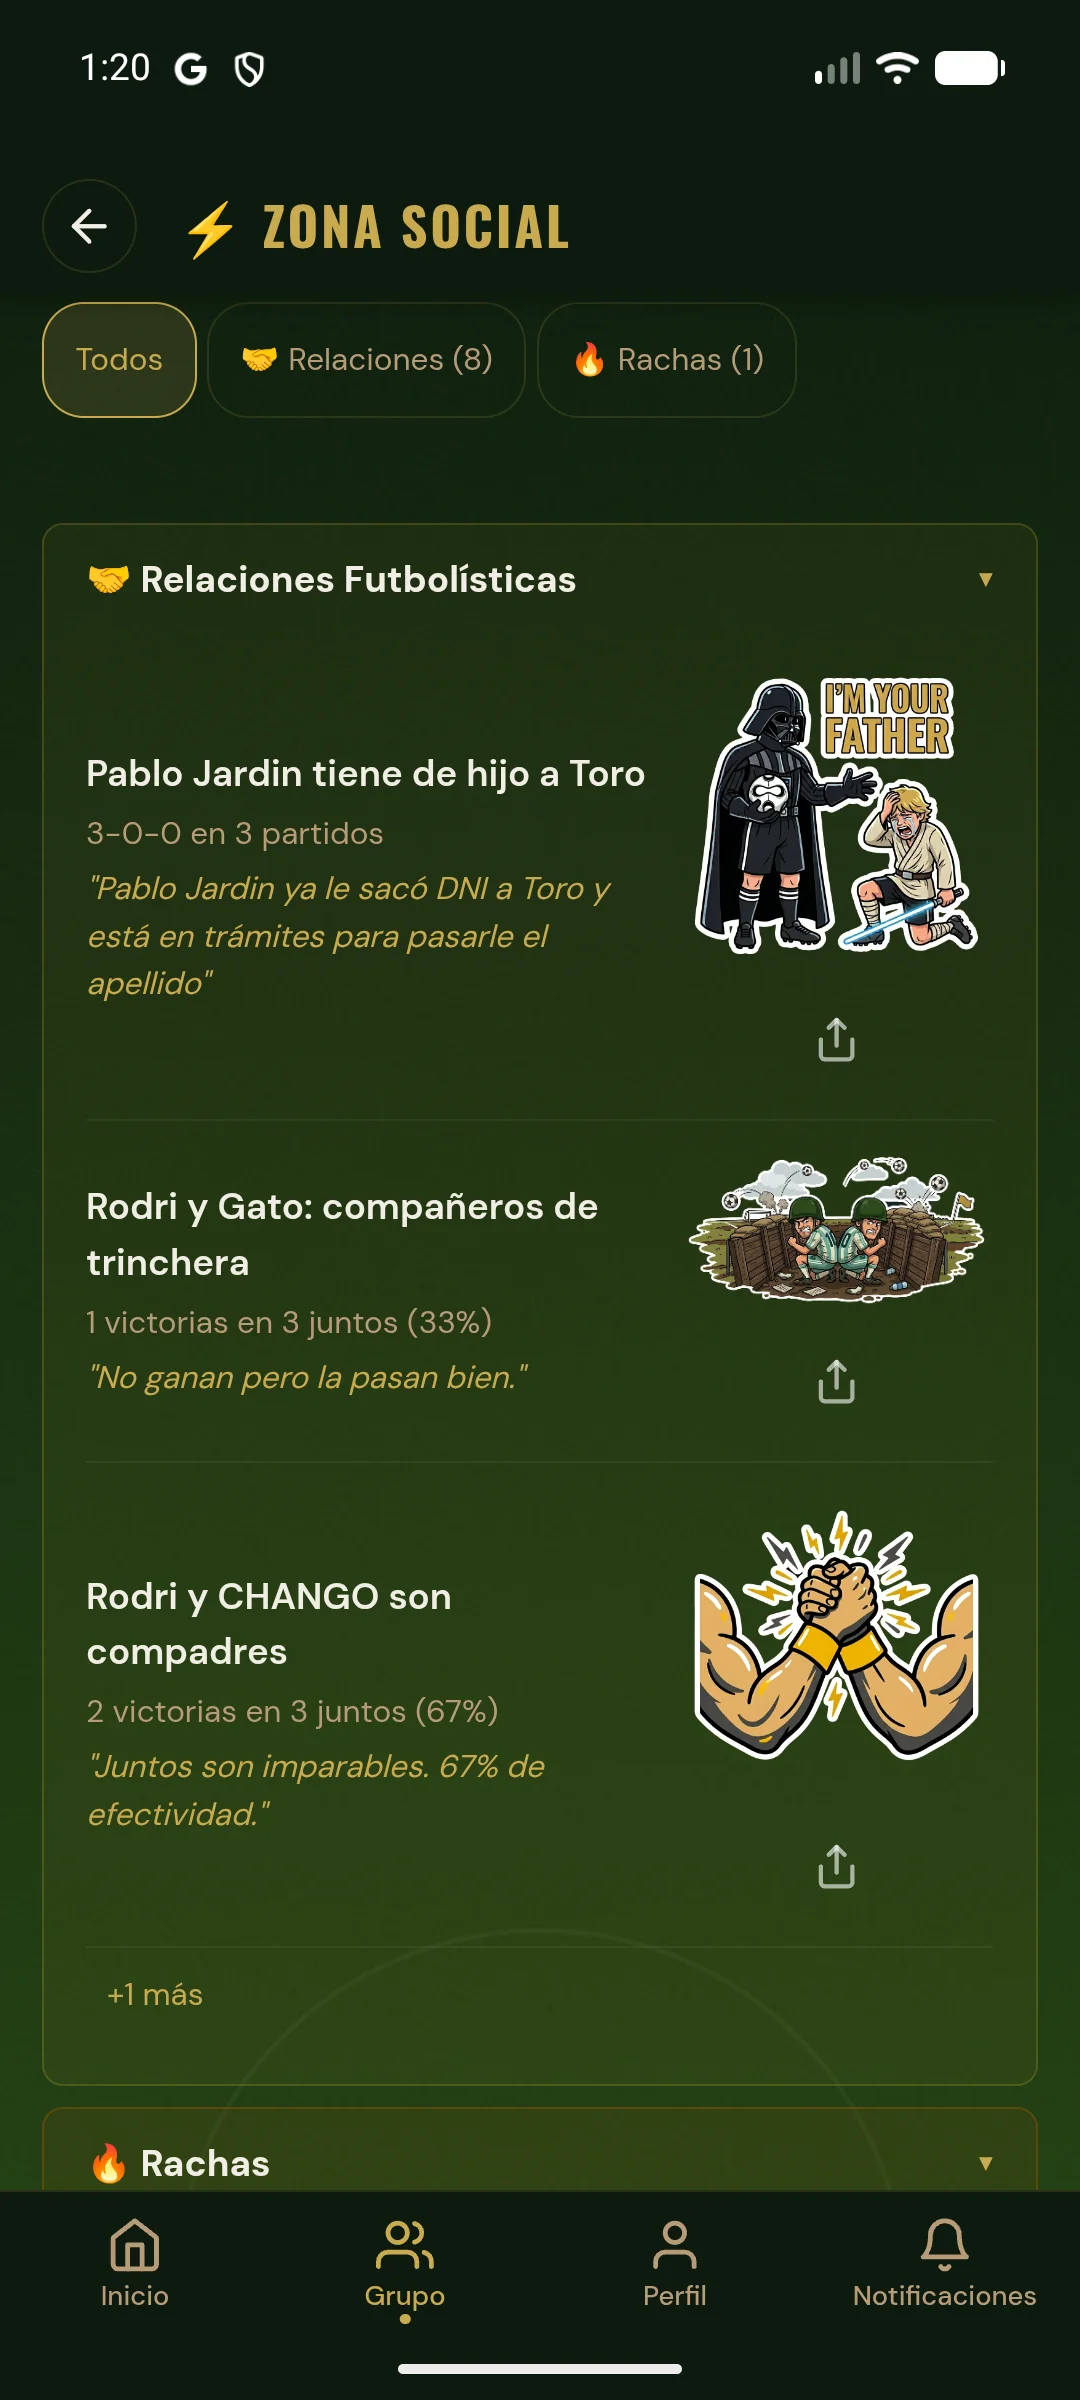
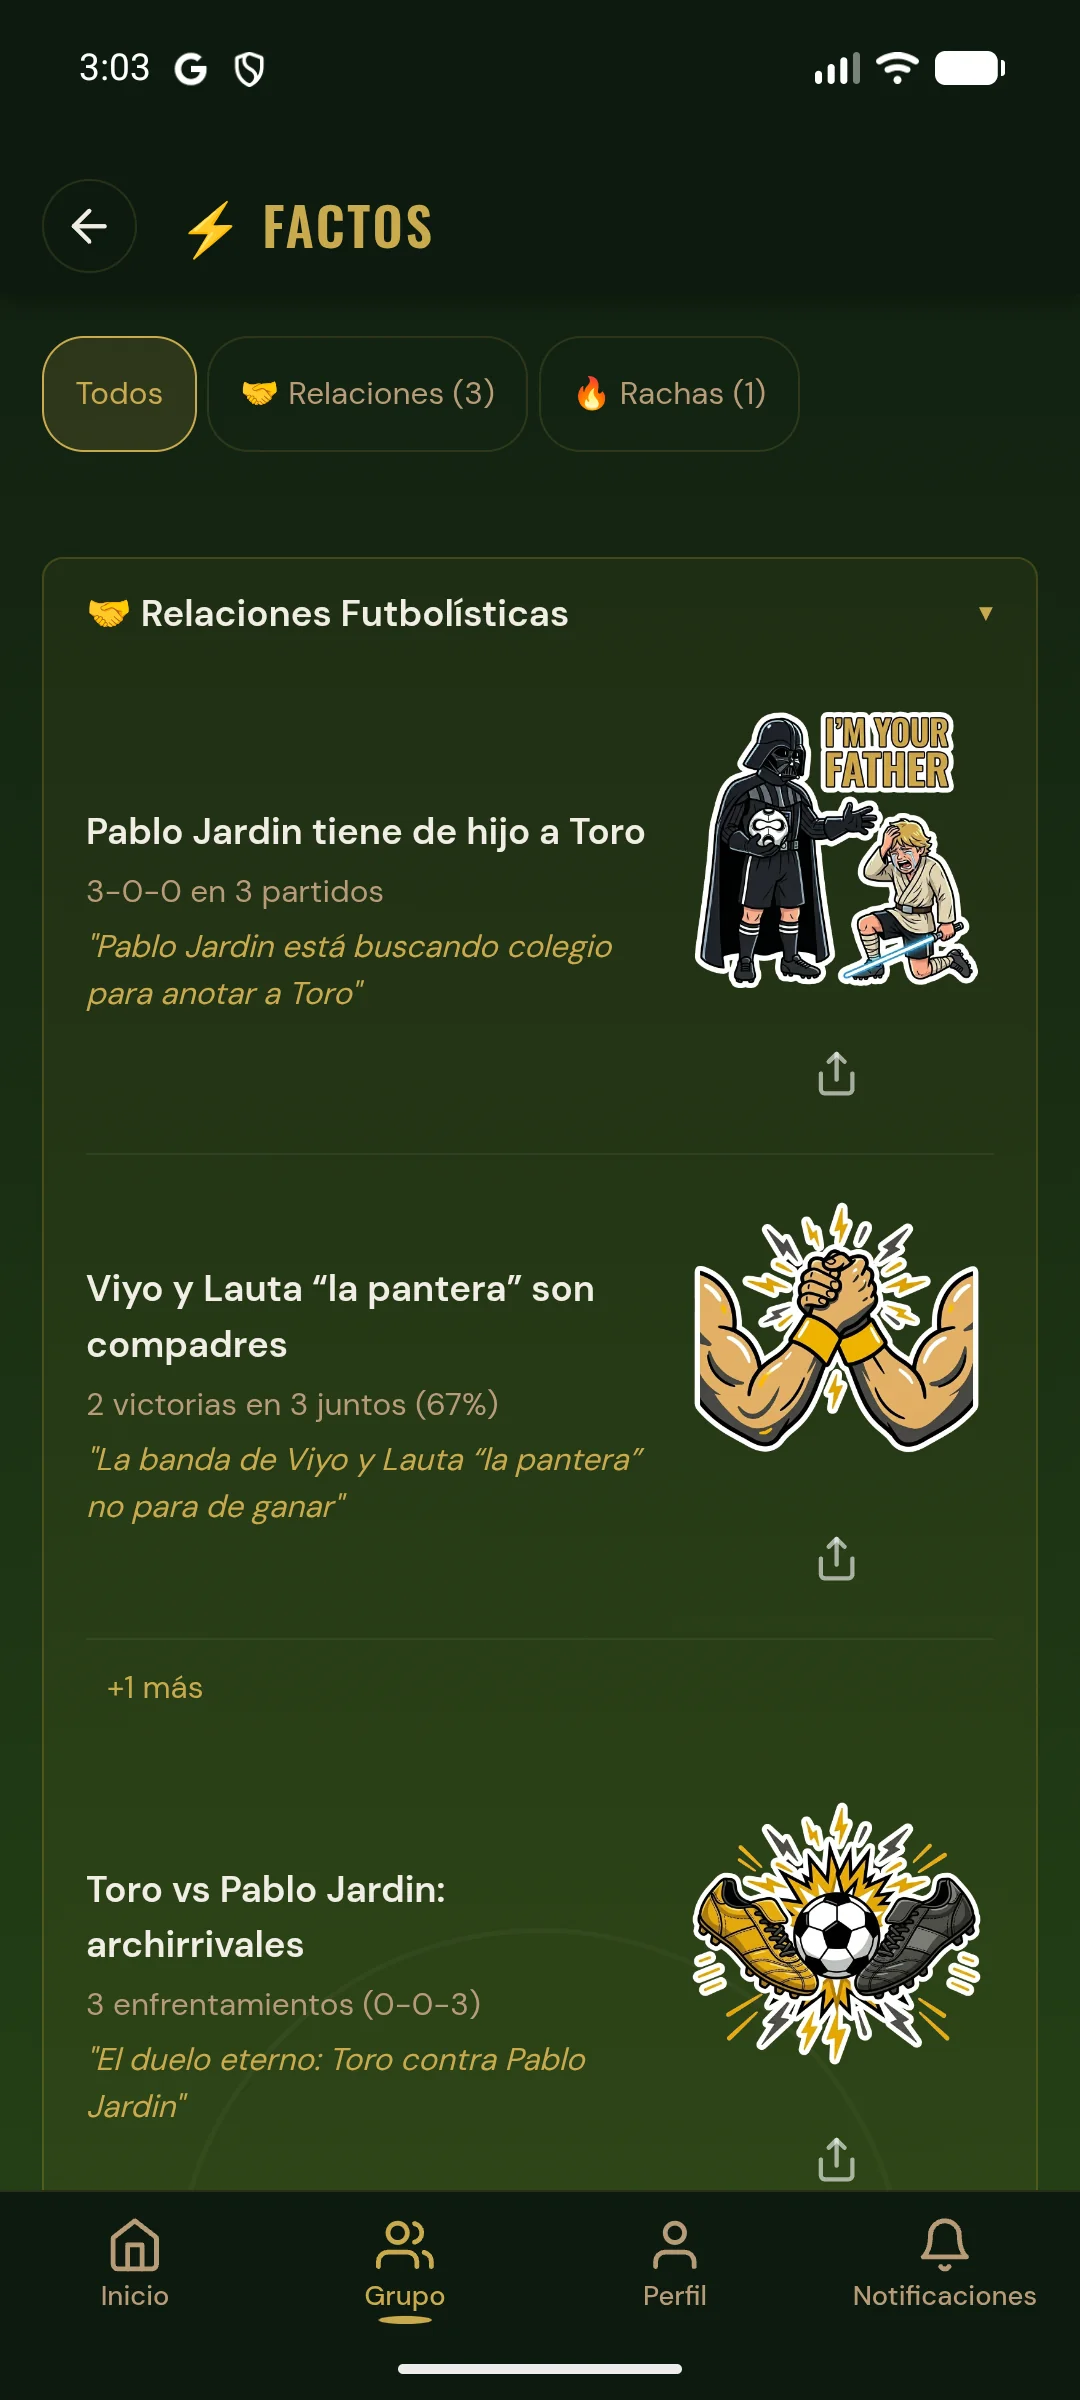
fixes web

diff --git a/index.html b/index.html
@@ -370,8 +370,7 @@
               </div>
               <h3 class="feature-card__title">Resumen con Relator IA</h3>
               <p class="feature-card__desc">
-                Un relato del partido generado por IA con humor barrial. Para mandar al grupo y revivir la épica del
-                partido.
+                La crónica del partido narrada por IA, con onda de relator de cancha. Pegala al grupo y reviven cada jugada.
               </p>
             </div>
             <div class="feature-card reveal">
@@ -426,12 +425,23 @@
           <div class="showcase-carousel__item">
             <div class="phone-frame phone-frame--gallery">
               <img src="assets/screenshots/screen_zona_social.webp"
-                alt="Zona Social: rivalidades y rachas del grupo"
+                alt="Factos: rivalidades, rachas y archirivales del grupo"
                 class="phone-frame__screen" loading="lazy">
             </div>
             <div class="showcase-carousel__info">
-              <h3 class="showcase-carousel__title">Zona Social</h3>
-              <p class="showcase-carousel__desc">Rivalidades, rachas y quién tiene a quién de hijo.</p>
+              <h3 class="showcase-carousel__title">Factos</h3>
+              <p class="showcase-carousel__desc">Rivalidades, rachas y quién tiene a quién de hijo. El picante del grupo, ordenado.</p>
+            </div>
+          </div>
+          <div class="showcase-carousel__item">
+            <div class="phone-frame phone-frame--gallery">
+              <img src="assets/screenshots/screen_resumen_partido.webp"
+                alt="Relato del partido generado por IA con onda de relator de cancha"
+                class="phone-frame__screen" loading="lazy">
+            </div>
+            <div class="showcase-carousel__info">
+              <h3 class="showcase-carousel__title">Relator IA</h3>
+              <p class="showcase-carousel__desc">La crónica del partido narrada con onda de relator. Para mandar al grupo y revivir cada jugada.</p>
             </div>
           </div>
           <div class="showcase-carousel__item">
@@ -502,7 +512,7 @@
       <div class="container">
         <div class="social-proof reveal">
           <blockquote class="social-proof__quote">
-            "Antes tardábamos más en armar los equipos que en calentar. Ahora pegás la lista y en 30 segundos está. Y nadie se queja porque lo armó el algoritmo, no vos."
+            Antes tardábamos más en armar los equipos que en calentar. Ahora pegás la lista y en 30 segundos está. Y nadie se queja porque lo armó el algoritmo, no vos.
           </blockquote>
           <p class="social-proof__author">
             — Un organizador de fulbito de los jueves, Mendoza

diff --git a/css/sections.css b/css/sections.css
@@ -606,6 +606,18 @@
   line-height: 1;
 }
 
+.social-proof__quote::after {
+  content: '\201D';
+  position: absolute;
+  right: -4px;
+  bottom: -32px;
+  font-size: 3rem;
+  color: var(--color-oro);
+  opacity: 0.3;
+  font-family: var(--font-display);
+  line-height: 1;
+}
+
 .social-proof__author {
   font-family: var(--font-body);
   font-size: var(--text-sm);
